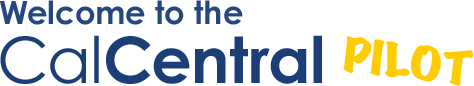
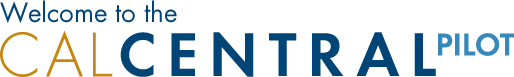
MYB-993, Updated the Welcome opt-in to the new branding. Getting a little ahead of myself but I really wanted to see it used somewhere.

diff --git a/dev/me.html b/dev/me.html
@@ -57,7 +57,7 @@
           <h1 class="s3d-dialog-header">Accept CalCentral Pilot Program</h1>
 
           <!-- Dialog Content -->
-            <p class="welcome-opt-in"><span class="fl-offScreen-hidden">Welcome to CalCentral Pilot.</span></p>
+            <p class="welcome-opt-in"><span class="fl-offScreen-hidden">Welcome to the CalCentral Pilot.</span></p>
 
             <p><b>CalCentral</b> is a pilot program designed to bring many campus online services under one roof over time.</p>
 

diff --git a/dev/skins/myb/skin.css b/dev/skins/myb/skin.css
@@ -7,7 +7,7 @@
 #join_myberkeley_dialog .welcome-opt-in {
     margin-top: 1em;
     width: 100%;
-    height: 86px;
+    height: 77px;
     background: url(/dev/images/myb/welcome-opt-in.png) no-repeat;
 }
 
